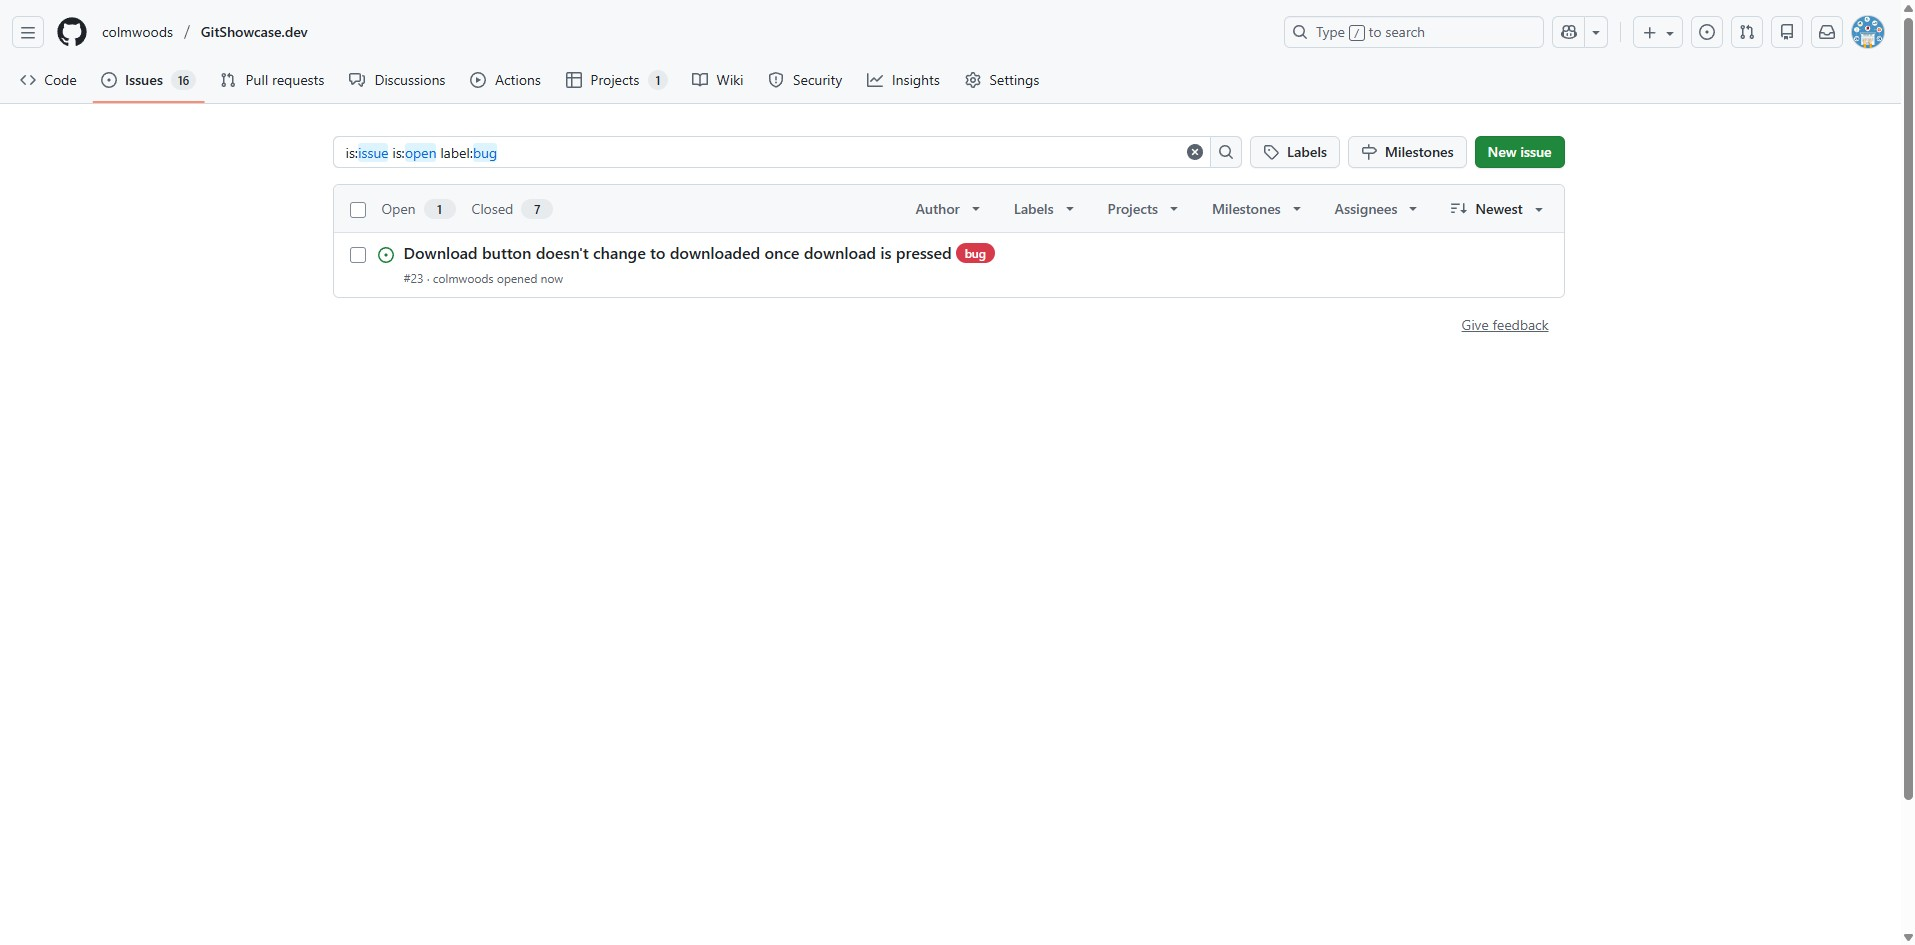
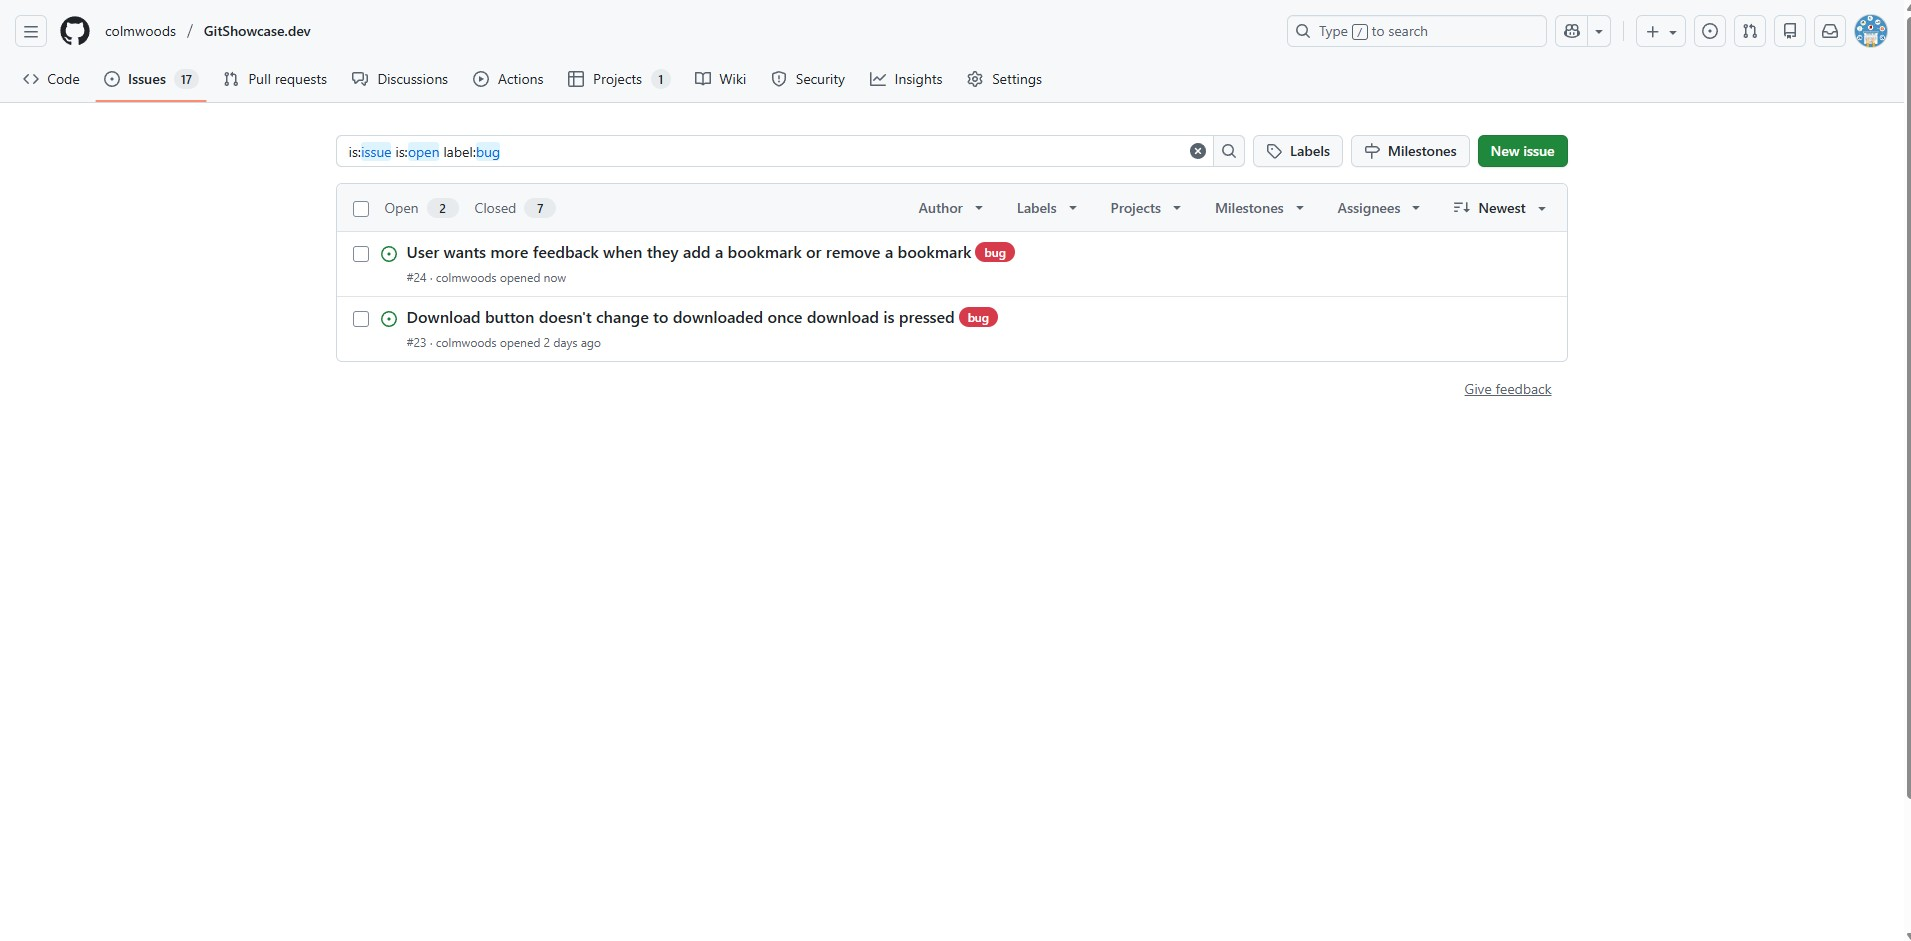
Add remaining ss into README.md file

diff --git a/README.md b/README.md
@@ -165,6 +165,37 @@ GitShowcase.dev uses the following:
 
 ---
 
+## Accessibility
+
+GitShowcase.dev was developed with accessibility as a priority and aims to meet **WCAG 2.1 AA** standards where reasonably possible.  
+Accessibility decisions were guided by the four WCAG principles: **Perceivable, Operable, Understandable, and Robust (POUR)**.
+
+### Perceivable
+- High-contrast colour palette to ensure text readability
+- Clear typography and spacing
+- Icons paired with text where appropriate
+- Content not reliant on colour alone to convey meaning
+
+### Operable
+- Full keyboard navigation across interactive elements
+- No mouse-only interactions
+- Accessible buttons and links with adequate click/tap targets
+
+### Understandable
+- Clear and consistent navigation structure
+- Descriptive labels on forms and inputs
+- Validation messages that explain errors clearly
+- Predictable page behaviour and layout
+
+### Robust
+- Semantic HTML to support screen readers and assistive technologies
+- Clean, standards-compliant markup
+- Cross-browser and cross-device compatibility testing
+
+Lighthouse accessibility audits were used throughout development to identify and resolve accessibility issues.
+
+---
+
 ## Wireframes
 To ensure consistent design and usability across all device sizes, wireframes were created for **mobile**, **tablet**, and **desktop** using [Figma](https://www.figma.com/).
 
@@ -448,7 +479,10 @@ Additional columns were used to clearly track assessment goals:
 
 This approach allowed progress to be tracked incrementally while ensuring the project aligned closely with assessment criteria and Agile best practices.
 
+### Start
 ![screenshot](documentation/gh-projects.jpg)
+### Finish
+![screenshot](documentation/gh-projects-finished.jpg)
 
 **Project Board:**  
 https://github.com/users/colmwoods/projects/10
@@ -522,6 +556,34 @@ This includes:
 - Manual test cases  
 - Automated test details  
 - Bugs and solutions  
+
+---
+
+## User Feedback & Progress Indicators
+
+GitShowcase.dev provides clear and consistent feedback to users for all key interactions, ensuring users always understand the outcome of their actions.
+
+### Authentication Feedback
+- Successful login and logout actions trigger immediate UI state changes and confirmation views.
+- Navigation updates dynamically based on authentication status.
+
+### Comment Feedback
+- Users receive immediate visual confirmation when comments are added, edited, or deleted.
+- Deleting a comment requires explicit user confirmation to prevent accidental data loss.
+- Success messages are displayed after comment deletion.
+
+### Form Feedback
+- All forms include validation feedback for missing or invalid input.
+- Successful form submissions redirect users to a dedicated success page.
+
+### Error Handling Feedback
+- Invalid routes display a custom 404 page.
+- Unauthorized actions redirect users to authentication pages.
+- Invalid search input and API failures are handled safely with user-facing feedback.
+
+### Progress Indicators
+- Immediate UI updates indicate successful actions.
+- Lightweight feedback mechanisms are used to maintain a clean interface while still clearly communicating system state.
 
 ---
 
